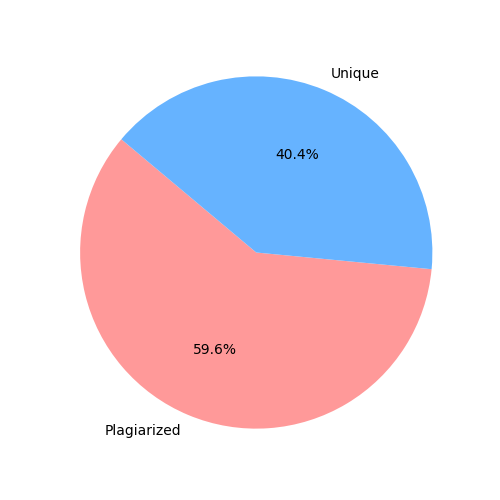
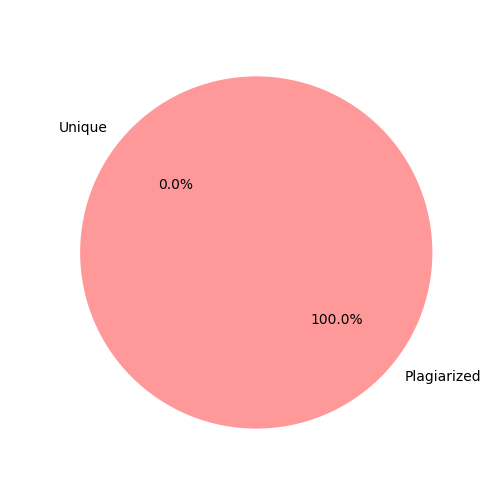
mod14 updte index and app

diff --git a/templates/index.html b/templates/index.html
@@ -56,7 +56,7 @@
         .form-control-file {
             margin-top: 10px;
             font-size: 14px;
-            padding-left: 70px;
+            padding-left: 70px; /* Adjust this value to move the input to the right */
         }
 
         button {
@@ -66,159 +66,148 @@
             padding: 10px 20px;
             border-radius: 5px;
             cursor: pointer;
+            margin: 20px auto;
+            display: block;
+            font-size: 16px;
             transition: background-color 0.3s ease;
-            margin-bottom: 20px;
         }
 
         button:hover {
             background-color: #0056b3;
         }
 
-        .result {
+        .result, .percentage {
             margin-top: 20px;
+            padding: 10px;
+            border-radius: 5px;
+            background-color: #e9ecef;
         }
 
-        .percentage {
-            margin: 10px 0;
+        .sources {
+            margin-top: 20px;
+            padding: 10px;
+            border-radius: 5px;
+            background-color: #ffcccc;
+        }
+
+        .source-item {
+            margin: 5px 0;
+            padding: 5px;
+            border-bottom: 1px solid #ccc;
+            font-weight: bold;
+        }
+
+        .snippet-content {
+            display: none;
+            background-color: #f2f2f2;
+            padding: 10px;
+            border-radius: 5px;
+        }
+
+        .toggle-btn {
+            cursor: pointer;
+            color: #e5e8eb;
+            font-weight: bold;
+            text-decoration: underline;
         }
 
         table {
             width: 100%;
             border-collapse: collapse;
-            margin-top: 20px;
-        }
-
-        table, th, td {
-            border: 1px solid #cccccc;
+            margin: 20px 0;
         }
 
         th, td {
-            padding: 10px;
+            border: 1px solid #dddddd;
             text-align: center;
+            padding: 8px;
+        }
+
+        th {
+            background-color: #f2f2f2;
         }
 
         img {
             margin-top: 20px;
-            max-width: 100%;
-            border-radius: 5px;
-        }
-
-        .sources {
-            margin-top: 20px;
-            text-align: left;
-        }
-
-        .source-item {
-            margin-bottom: 20px;
-        }
-
-        .toggle-btn {
-            cursor: pointer;
-            background-color: #007bff;
-            color: white;
-            padding: 5px 10px;
-            border: none;
-            border-radius: 5px;
-            margin-top: 5px;
-            display: inline-block;
-            transition: background-color 0.3s ease;
-        }
-
-        .toggle-btn:hover {
-            background-color: #0056b3;
-        }
-
-        .snippet-content {
-            display: none;
-            margin-top: 10px;
-            padding: 10px;
-            border: 1px solid #cccccc;
-            border-radius: 5px;
-            background-color: #f9f9f9;
-        }
-
-        .snippet-content p {
-            margin: 5px 0;
         }
     </style>
+    <script>
+        function toggleSnippetContent(button) {
+            const content = button.nextElementSibling;
+            if (content.style.display === "none" || content.style.display === "") {
+                content.style.display = "block";
+                button.textContent = "Hide Matching Snippets";
+            } else {
+                content.style.display = "none";
+                button.textContent = "Show Matching Snippets";
+            }
+        }
+
+        function validateForm() {
+            const textarea = document.querySelector('textarea');
+            const fileInput = document.querySelector('#file');
+            
+            if (textarea.value.trim() === "" && fileInput.files.length === 0) {
+                alert("Please enter text or upload at least one file.");
+                return false;
+            }
+            return true;
+        }
+    </script>
 </head>
 <body>
     <div class="container">
         <h1>CCSICT Research Output Similarity Checker</h1>
-        <form method="POST" action="/detect" enctype="multipart/form-data">
-            <textarea name="text" placeholder="Enter your text here..."></textarea>
+        <form action="/detect" method="POST" enctype="multipart/form-data" onsubmit="return validateForm()">
+            <textarea name="text" placeholder="Enter text here..."></textarea>
 
             <div class="file-input-container">
-                <label for="files">Upload PDF or TXT files:</label>
-                <input type="file" name="files[]" id="files" multiple class="form-control-file">
+                <label for="file">Upload PDF or TXT file(s):</label>
+                <input type="file" name="files[]" id="file" class="form-control-file" multiple>
             </div>
 
-            <button type="submit">Check Similarity</button>
+            <button type="submit">Check for Plagiarism</button>
         </form>
 
         {% if result %}
-        <div class="result">
-            <h2>{{ result }}</h2>
-
-            <table>
-                <tr>
-                    <th>Number of Words</th>
-                    <th>Results Found</th>
-                </tr>
-                <tr>
-                    <td>{{ word_count }}</td>
-                    <td>{{ total_results }}</td>
-                </tr>
-            </table>
-
-            <div class="percentage">
-                <h3>Plagiarized: {{ plagiarism_percentage }}%</h3>
-                <h3>Unique: {{ unique_percentage }}%</h3>
-            </div>
-
-            <img src="{{ url_for('static', filename='uploads/pie_chart.png') }}" alt="Plagiarism Pie Chart">
-
-            {% if plagiarism_sources %}
-                <div class="sources">
-                    {% for source in plagiarism_sources %}
-                        <div class="source-item">
-                            <p>{{ source[0] }} - {{ source[1] }}% Plagiarized</p>
-                            <button class="toggle-btn" onclick="toggleSnippetContent(this)">Show Matching Snippets</button>
-                            <div class="snippet-content">
-                                {% for snippet in source[2] %}
-                                    <p>{{ snippet }}</p>
-                                {% endfor %}
-                            </div>
-                        </div>
-                    {% endfor %}
-                </div>
+            <div class="result">
+                <h2>{{ result }}</h2>
 
                 <table>
                     <tr>
-                        <th>Matched Snippets</th>
-                        <th>Non-Matching Snippets</th>
+                        <th>Number of Words</th>
+                        <th>Results Found</th>
                     </tr>
                     <tr>
+                        <td>{{ word_count }}</td>
                         <td>{{ total_results }}</td>
-                        <td>{{ total_non_matching_snippets }}</td> <!-- Non-matching snippets count -->
                     </tr>
                 </table>
-            {% endif %}
-        </div>
+
+                <div class="percentage">
+                    <h3>Plagiarized: {{ plagiarism_percentage }}%</h3>
+                    <h3>Unique: {{ unique_percentage }}%</h3>
+                </div>
+
+                <img src="{{ url_for('static', filename='uploads/pie_chart.png') }}" alt="Plagiarism Pie Chart">
+
+                {% if plagiarism_sources %}
+                    <div class="sources">
+                        {% for source in plagiarism_sources %}
+                            <div class="source-item">
+                                <p>{{ source[0] }} - {{ source[1] }}% Plagiarized</p>
+                                <button class="toggle-btn" onclick="toggleSnippetContent(this)">Show Matching Snippets</button>
+                                <div class="snippet-content">
+                                    {% for snippet in source[2] %}
+                                        <p>{{ snippet }}</p>
+                                    {% endfor %}
+                                </div>
+                            </div>
+                        {% endfor %}
+                    </div>
+                {% endif %}
+            </div>
         {% endif %}
     </div>
-
-    <script>
-        function toggleSnippetContent(button) {
-            const snippetContent = button.nextElementSibling;
-            if (snippetContent.style.display === "none" || snippetContent.style.display === "") {
-                snippetContent.style.display = "block";
-                button.textContent = "Hide Matching Snippets";
-            } else {
-                snippetContent.style.display = "none";
-                button.textContent = "Show Matching Snippets";
-            }
-        }
-    </script>
 </body>
 </html>

diff --git a/app.py b/app.py
@@ -42,7 +42,6 @@ def preprocess_text(text):
     text = re.sub(r'[^\w\s]', '', text)
     return text.lower().strip()
 
-# Function to get matched and non-matched snippets
 def get_snippets(source_text, input_text, ngram_size=5):
     source_text_clean = preprocess_text(source_text)
     input_text_clean = preprocess_text(input_text)
@@ -57,8 +56,6 @@ def get_snippets(source_text, input_text, ngram_size=5):
     source_ngrams = generate_ngrams(source_words, ngram_size)
 
     matching_snippets = [ngram for ngram in source_ngrams if ngram in input_ngrams]
-    non_matching_snippets = len(input_ngrams) - len(matching_snippets)
-
     combined_snippets = []
     current_snippet = []
 
@@ -77,23 +74,21 @@ def get_snippets(source_text, input_text, ngram_size=5):
     if current_snippet:
         combined_snippets.append(' '.join(current_snippet))
 
-    return sorted(set(combined_snippets), key=lambda snippet: source_text_clean.find(snippet)), non_matching_snippets
+    return sorted(set(combined_snippets), key=lambda snippet: source_text_clean.find(snippet))
 
-# Function to detect plagiarism and calculate snippet matching
 def detect(input_text):
     if not input_text.strip():
-        return "No text provided", [], 0, 100, 0
+        return "No text provided", [], 0, 100
 
     input_text = preprocess_text(input_text)
     vectorized_text = tfidf_vectorizer.transform([input_text])
     prediction = model.predict(vectorized_text)
 
     if prediction[0] == 0:
-        return "No Plagiarism Detected", [], 0, 100, 0
+        return "No Plagiarism Detected", [], 0, 100
 
     cosine_similarities = cosine_similarity(vectorized_text, preprocessed_texts)[0]
     plagiarism_sources = []
-    total_non_matching_snippets = 0
 
     threshold = 0.35
     total_similarity = 0
@@ -103,17 +98,15 @@ def detect(input_text):
             plagiarism_percentage = round(similarity * 100, 2)
             source_title = data['source_text'].iloc[i]
             source_text = data['plagiarized_text'].iloc[i]
-            matching_snippets, non_matching_snippets = get_snippets(source_text, input_text)
+            matching_snippets = get_snippets(source_text, input_text)
             plagiarism_sources.append((source_title, plagiarism_percentage, matching_snippets))
-            total_non_matching_snippets += non_matching_snippets
 
     plagiarism_sources.sort(key=lambda x: x[1], reverse=True)
     total_plagiarism_percentage = min(round(total_similarity * 100, 2), 100)
     unique_percentage = 100 - total_plagiarism_percentage
     detection_result = "Plagiarism Detected" if plagiarism_sources else "No Plagiarism Detected"
-    return detection_result, plagiarism_sources, total_plagiarism_percentage, unique_percentage, total_non_matching_snippets
+    return detection_result, plagiarism_sources, total_plagiarism_percentage, unique_percentage
 
-# Extract text from file (PDF or TXT)
 def extract_text_from_file(file):
     text = ""
     if file.filename.endswith('.pdf'):
@@ -126,7 +119,6 @@ def extract_text_from_file(file):
         text = file.read().decode('utf-8')
     return text.strip()
 
-# Plot pie chart
 def plot_pie_chart(plagiarism_percentage, unique_percentage):
     labels = ['Plagiarized', 'Unique']
     sizes = [plagiarism_percentage, unique_percentage]
@@ -135,14 +127,15 @@ def plot_pie_chart(plagiarism_percentage, unique_percentage):
     plt.figure(figsize=(5, 5))
     plt.pie(sizes, labels=labels, colors=colors, autopct='%1.1f%%', startangle=140)
     plt.axis('equal')
-
+    
     pie_chart_path = os.path.join(app.config['UPLOAD_FOLDER'], 'pie_chart.png')
     
+    # Ensure the folder exists
     if not os.path.exists(app.config['UPLOAD_FOLDER']):
         os.makedirs(app.config['UPLOAD_FOLDER'])
 
     plt.savefig(pie_chart_path)
-    plt.close()
+    plt.close()  # Close the plot to avoid display overhead in server logs
     return pie_chart_path
 
 @app.route('/')
@@ -159,7 +152,7 @@ def detect_plagiarism():
             input_text += "\n" + extract_text_from_file(file)
 
     word_count = len(input_text.split())
-    detection_result, plagiarism_sources, plagiarism_percentage, unique_percentage, total_non_matching_snippets = detect(input_text)
+    detection_result, plagiarism_sources, plagiarism_percentage, unique_percentage = detect(input_text)
     pie_chart_path = plot_pie_chart(plagiarism_percentage, unique_percentage)
 
     return render_template('index.html', 
@@ -169,7 +162,6 @@ def detect_plagiarism():
                            total_results=len(plagiarism_sources), 
                            plagiarism_percentage=plagiarism_percentage, 
                            unique_percentage=unique_percentage,
-                           total_non_matching_snippets=total_non_matching_snippets,  # Send non-matching snippets
                            pie_chart_path=pie_chart_path)
 
 @app.route('/uploads/<filename>')
